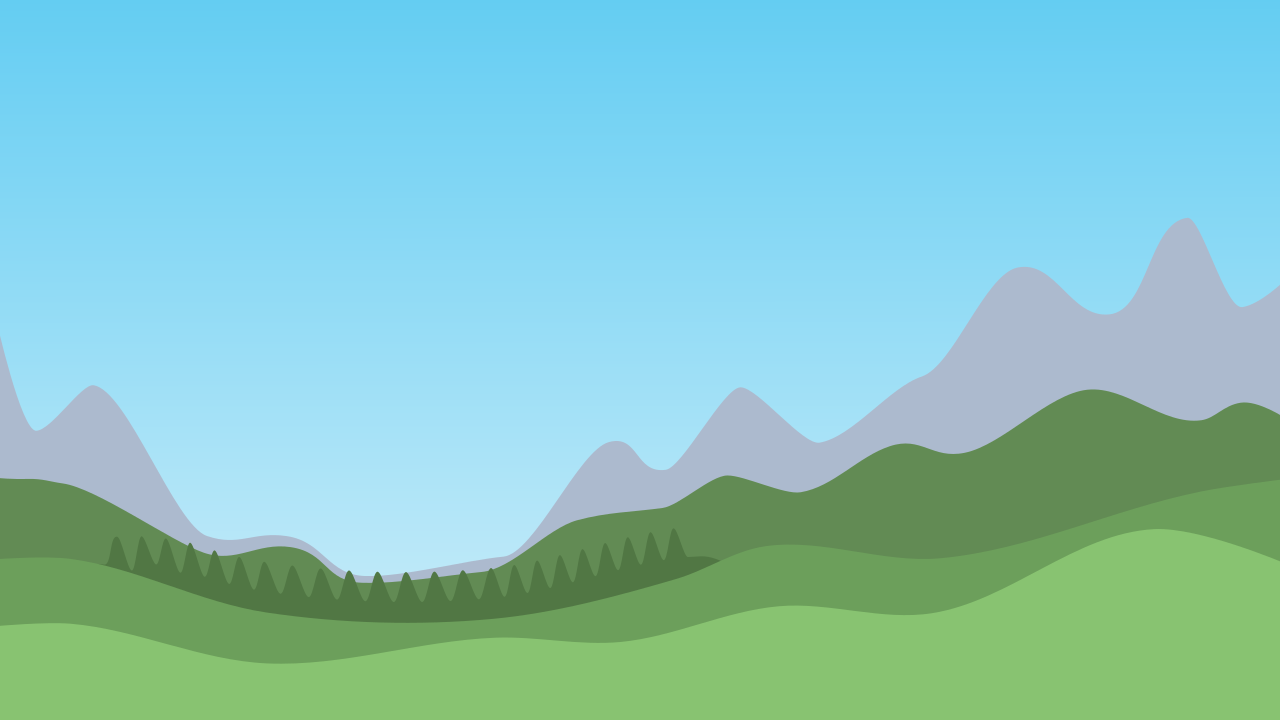
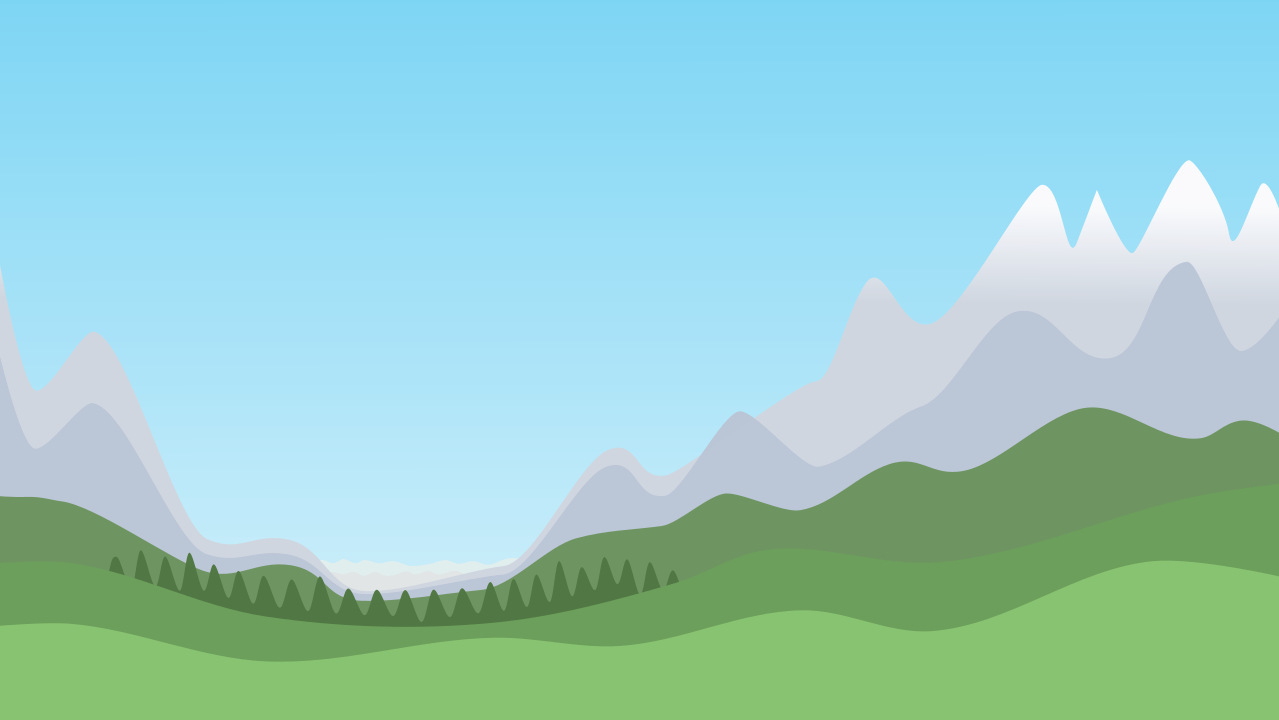
graphic tweaks, and a flying through the clouds effect on the title screen.

diff --git a/js/menu.js b/js/menu.js
@@ -13,6 +13,8 @@ var menuState = {
     game.load.image("pilot", "img/aviator125w.png");
     game.load.image("sky", "img/sky720h.jpg");
     game.load.spritesheet("buttons", "img/buttons103w47h.png", 103,47);
+    game.load.spritesheet("smoke", "img/smoke200wh.png", 200,200);
+   
 
   },
   create: function() {
@@ -31,6 +33,8 @@ var menuState = {
     this.plane = game.add.sprite(0,0, 'biplane');
     this.plane.anchor.set(0.5, 0.5); //this.scale.set(0.5,0.5);
     this.planeGroup.add(this.plane);
+
+    this.inTheClouds = new InTheClouds( game.world );
 
     startButton=game.add.button(game.width/2, game.height*0.85, 'buttons', function(){
       this.closeMenu(GAME);
@@ -52,6 +56,10 @@ var menuState = {
     if (this.count==1) game.camera.flash(0x000000, 600, true);
 
     this.combineWobbles();
+
+    if (game.rnd.between(0,200)==1) {
+      this.inTheClouds.createClouds( game.rnd.between(2,4) );
+    }
 
     if (this.gameMode==GAME) {
       if (this.cursors.up.isDown) {
@@ -108,7 +116,7 @@ var menuState = {
   },
 };
 
-
+/**************************************************************************************/
 Wobble = function( range, duration, frequency ) {
   this.x=0; this.y=0;
   this.range = range;
@@ -116,21 +124,7 @@ Wobble = function( range, duration, frequency ) {
   this.frequency = frequency;
 
   this.logic();
-  //this.plane.x += ((this.target.x - this.plane.x) * 0.02);
-  //this.plane.y += ((this.target.y - this.plane.y) * 0.02);
-  //if (game.rnd.between(0,20) == 1) { /* Random time */
-  // var x = this.plane.x + game.rnd.between(-20,20);
-  // var y = this.plane.y + game.rnd.between(-20,20);
-  // var duration = game.rnd.between(1000,2500);
-  // game.add.tween(this.plane).to({x:x, y:y}, /*duration*/duration,
-  //   Phaser.Easing.Back.InOut , /*autostart*/true, /*delay*/0, 
-  //   /*repeat*/0, /*yoyo*/false);
-  // //}
-  // this.logicTimer=game.time.events.add(/*time*/game.rnd.between(duration, duration+500), function() {
-  //   this.planeWobble();
-  // }, this);
 };
-
 Wobble.prototype.logic = function() {
   var x = game.rnd.between(-this.range,this.range);
   var y = game.rnd.between(-this.range,this.range);
@@ -151,3 +145,85 @@ Wobble.prototype.stopLogic = function() {
   game.time.events.remove( this.logicTimer );
 };
 
+
+/**************************************************************************************/
+var InTheClouds = function ( group ) {
+  Phaser.Group.call(this, game); /* create a Group, the parent Class */
+  
+  this.createMultiple(20, 'smoke'/*sprite sheet*/);
+  group.add( this );
+  this.forEach(function(cld) {
+    cld.anchor.set(0.5, 0.5);
+  });
+
+};
+InTheClouds.prototype = Object.create(Phaser.Group.prototype);
+InTheClouds.prototype.constructor = InTheClouds;
+
+/* create a big explosion graphic */
+InTheClouds.prototype.createClouds = function ( count ) {
+  var cld, cloudSize = game.height*2.4;
+  var cloudScale = cloudSize/200;
+  var alpha = game.rnd.realInRange(0.1, 0.3)
+  for (var n=0, dist=0; n<count; n++, dist+=110) {
+    if (cld=this.getFirstExists(false)) {
+      cld.reset(game.width + cloudSize/2, game.height/2);
+      cld.anchor.set(0.5,0.5);
+      cld.frame = game.rnd.between(1,5);
+      cld.alpha=alpha;
+      cld.scale.set(cloudScale, cloudScale);
+      dist += (game.rnd.between(1,3)==1 ? 90 : 0);
+      game.add.tween(cld).to({x: -(cloudSize/2)}, /*duration*/300, Phaser.Easing.Linear.None,
+        /*autostart*/true, /*delay*/dist, /*repeat*/0, /*yoyo*/false)
+        .onComplete.add(function(cld, tween){
+          cld.kill();
+        });
+
+    }
+  }
+
+};
+
+/**************************************************************************************/
+var Clouds = function ( group ) {
+  Phaser.Group.call(this, game); /* create a Group, the parent Class */
+  
+  this.createMultiple(5, 'cloud'/*sprite sheet*/);
+  group.add( this );
+  this.forEach(function(cld) {
+    cld.anchor.set(0.5, 0.5);
+  });
+
+};
+Clouds.prototype = Object.create(Phaser.Group.prototype);
+Clouds.prototype.constructor = Clouds;
+
+/* create a big explosion graphic */
+Clouds.prototype.createClouds = function ( count ) {
+  var cld;
+  var level=1;
+  for (var n=0; n<10; n++) { /* Level 1 */
+    cloudScale = 1.0;
+    if (cld=this.getFirstExists(false)) {
+      cld.reset(game.rnd.between(0,game.width), game.rnd.between(0,game.height));
+      cld.anchor.set(0.5,0.5);
+      cld.frame = game.rnd.between(1,2);
+      cld.alpha=0.9;
+      cld.scale.set(cloudScale, cloudScale);
+      dist += (game.rnd.between(1,3)==1 ? 90 : 0);
+      game.add.tween(cld).to({x: -(cloudSize/2)}, /*duration*/300, Phaser.Easing.Linear.None,
+        /*autostart*/true, /*delay*/dist, /*repeat*/0, /*yoyo*/false)
+        .onComplete.add(function(cld, tween){
+          cld.kill();
+        });
+
+    }
+  }
+
+};
+
+Clouds.prototype.update = function () {
+  this.forEach(function(cld) {
+    
+  });
+};

diff --git a/js/player.js b/js/player.js
@@ -42,7 +42,7 @@ function playerToEnemyHandler(player, enemy) {
 /* Manages the score text at the top. params: left player, right player, display group */
 Scoreboard = function( left, right, group ) {
   this.left=left; this.right=right; 
-  var style = { font: "48px Courier New", fill: "#FFFFFF", 
+  var style = { font: "52px Courier New", fill: "#FFFFFF", 
     /*boundsAlignH: "left",*/ boundsAlignV: "top",
     /*fontWeight: "bold"*/
   };
@@ -50,12 +50,12 @@ Scoreboard = function( left, right, group ) {
   this.leftText = game.add.text(0, 0, "0", style);
   //this.leftText.setStyle({boundsAlignH: "left"});
   this.leftText.setTextBounds(15, 15, game.width-(15*2), 100);
-  this.leftText.setShadow(1, 1, 'rgba(0,0,0, 0.8)', 0);
+  this.leftText.setShadow(1, 1, 'rgba(0,0,0, 0.9)', 0);
 
   this.rightText = game.add.text(0, 0, "0", style);
   this.rightText.boundsAlignH="right";
   this.rightText.setTextBounds(15, 15, game.width-(15*2), 100);
-  this.rightText.setShadow(1, 1, 'rgba(0,0,0, 0.8)', 0);
+  this.rightText.setShadow(1, 1, 'rgba(0,0,0, 0.9)', 0);
 
 }
 /* called when your plane died, to update score and respawn */

diff --git a/js/plane.js b/js/plane.js
@@ -9,7 +9,7 @@ Plane = function(x,y, dir) {
   /* make the ship naturally slow to a stop if left */
   //this.body.drag = new Phaser.Point(20,20);
   this.anchor.set(0.5, 0.5);
-  this.scale.set(0.5,0.5);
+  this.scale.set(0.55,0.55);
   this.body.setSize(50,50,25,25);
   this.body.allowGravity = false;
   this.myReset(dir);
